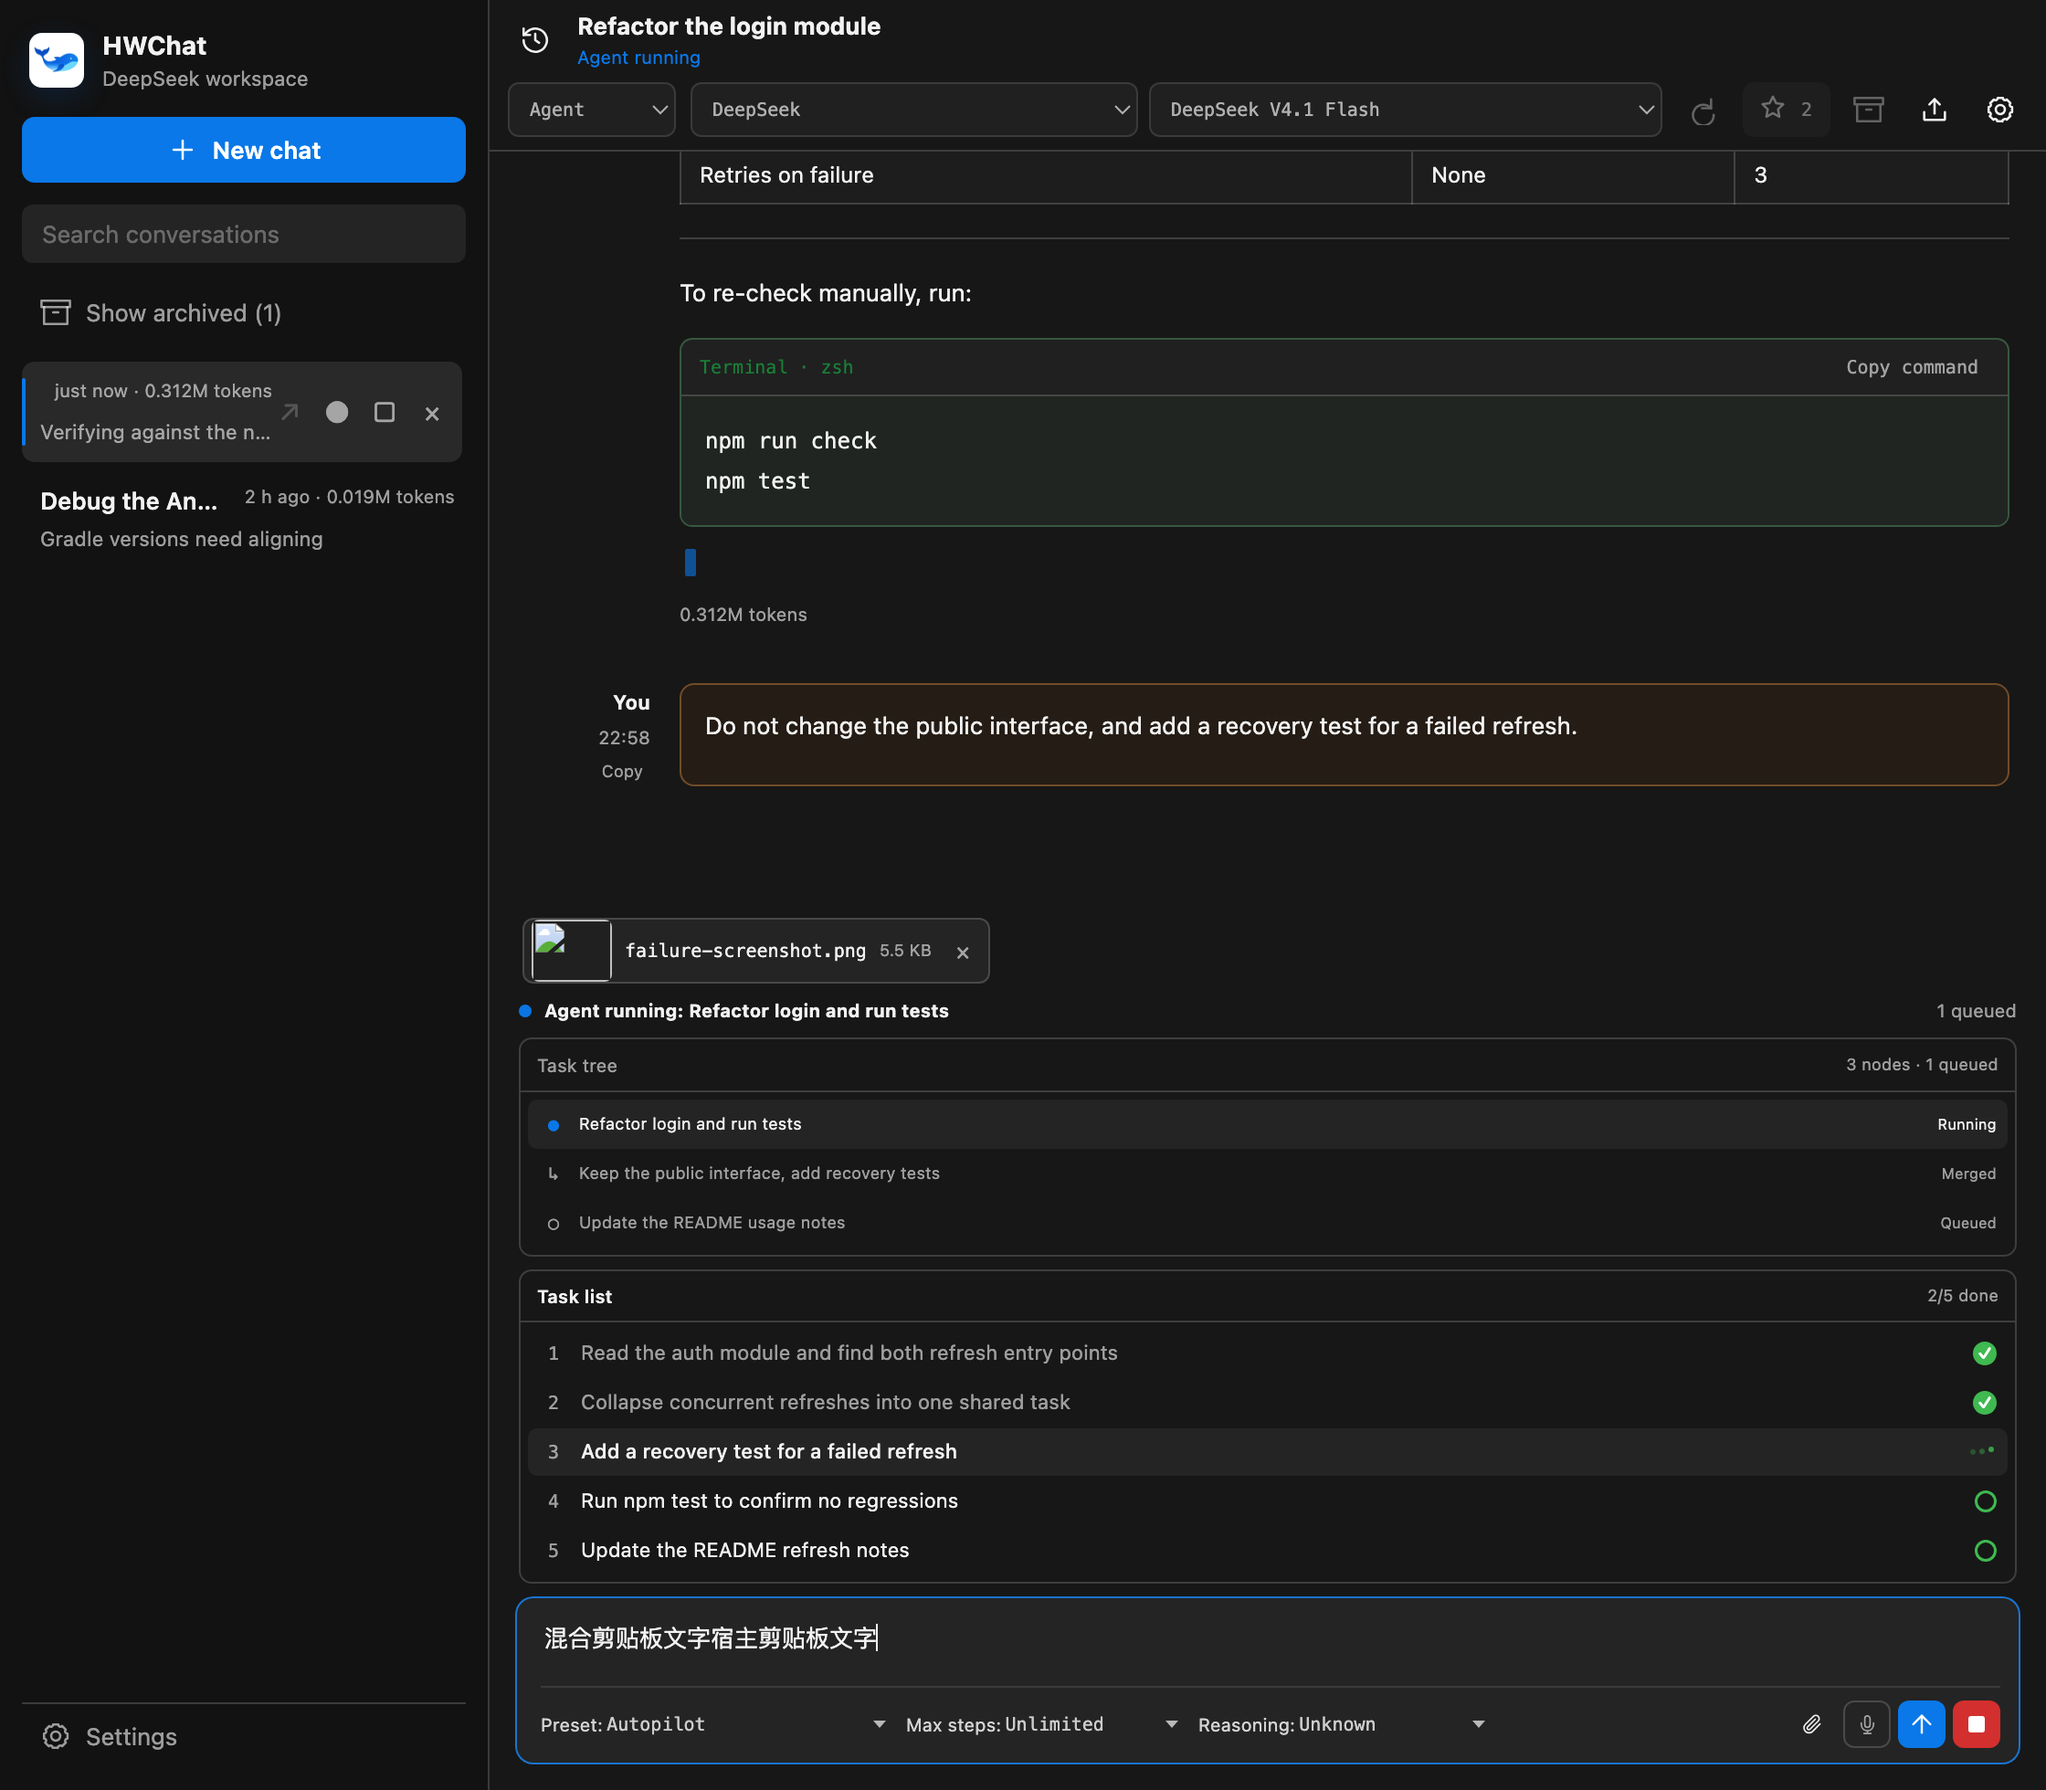
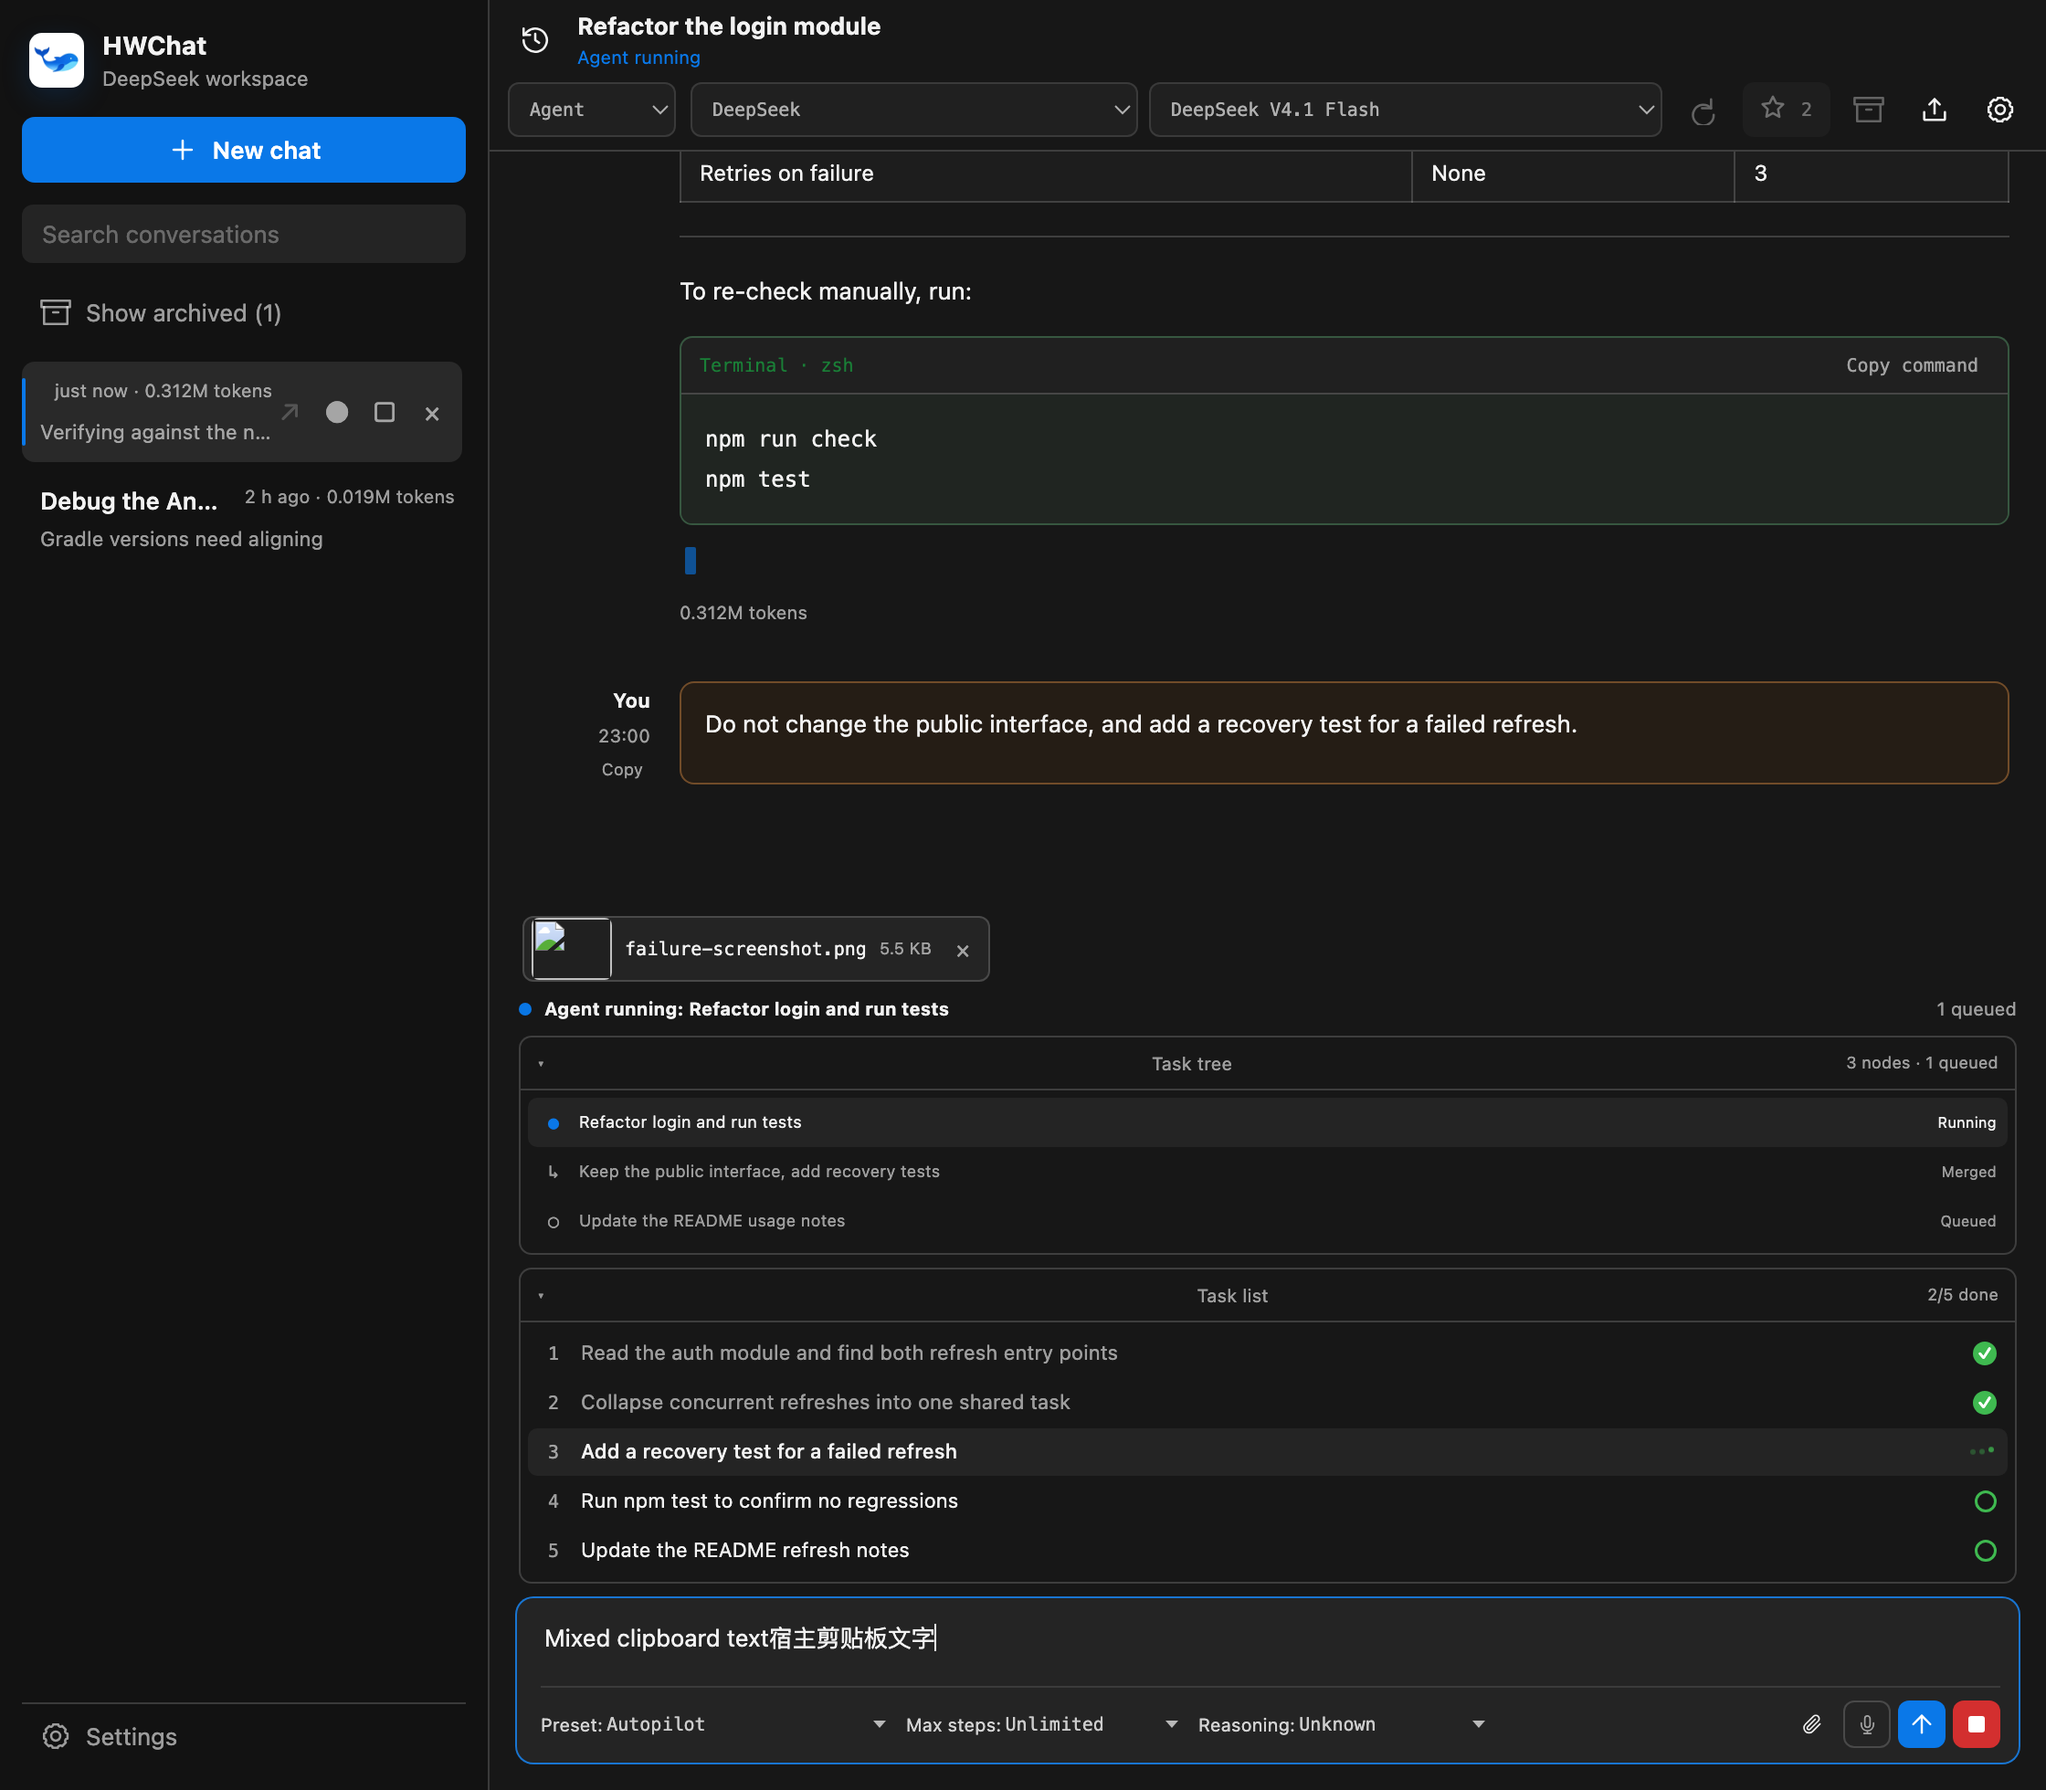
feat: make the task list collapsible like the task tree
- Render the task list as <details>/<summary> instead of a section, so a
  click on the title collapses and re-expands it.
- Draw the disclosure arrow with ::before, showing a right-pointing mark
  when closed and a down-pointing one when open: once a summary becomes
  display:flex the browser stops painting ::marker, which is why the
  reasoning block already draws its own arrow.
- Give the task tree the same arrow; it had no visible affordance either.
- Keep the list expanded by default and never re-open or re-close it on
  re-render, so the user's choice sticks for the session.
- Translate the remaining sample data in the generated screenshots.

diff --git a/media/chat.css b/media/chat.css
@@ -368,18 +368,26 @@ select, option { color: var(--dropdown-fg); background: var(--dropdown-bg); }
 .agent-run-state > span:last-child { margin-left: auto; white-space: nowrap; }
 .run-indicator { width: 7px; height: 7px; flex: 0 0 auto; border-radius: 50%; background: var(--accent); animation: pulse 1.1s ease-in-out infinite; }
 /* ── 任务清单（待办）─────────────────────────────────────────────
-   位置：任务树与输入框之间。三个状态都用绿色表示“按计划推进”：
-   等待=空心圆圈，执行中=跳动三点，完成=实心圆圈+白勾。
-   绿色取固定值而不是 --success：VS Code 主题的 testing-iconPassed
-   在少数主题里偏黄偏青，勾和圆圈会看不出是绿色。 */
+   位置：任务树与输入框之间，和任务树一样是 <details>，点标题折叠/展开。
+   三个状态都用绿色表示“按计划推进”：等待=空心圆圈，执行中=跳动三点，
+   完成=实心圆圈+白勾。绿色取固定值而不是 --success：VS Code 主题的
+   testing-iconPassed 在少数主题里偏黄偏青，勾和圆圈会看不出是绿色。 */
 .todo-panel { margin: 0 2px 7px; border: 1px solid var(--border); border-radius: 7px; background: var(--bg); overflow: hidden; --todo-green: #1a7f37; }
 :root[data-theme="dark"] .todo-panel,
 body.vscode-dark .todo-panel,
 body.vscode-high-contrast .todo-panel { --todo-green: #3fb950; }
-.todo-panel-heading { display: flex; align-items: center; justify-content: space-between; gap: 10px; min-height: 28px; padding: 5px 9px; border-bottom: 1px solid var(--border); color: var(--muted); font-size: 10px; }
-.todo-panel-heading strong { font-weight: 600; color: var(--fg); }
-.todo-panel-heading small { font-size: 9px; white-space: nowrap; }
-.todo-list { display: grid; gap: 1px; margin: 0; padding: 4px; list-style: none; }
+/* summary 用 flex 之后浏览器不再绘制 ::marker，箭头必须自绘（与 .reasoning 同法）。 */
+.todo-panel > summary,
+.task-tree > summary { display: flex; align-items: center; justify-content: space-between; min-height: 28px; gap: 10px; padding: 5px 9px; cursor: pointer; color: var(--muted); font-size: 10px; list-style: none; user-select: none; }
+.todo-panel > summary::-webkit-details-marker,
+.task-tree > summary::-webkit-details-marker { display: none; }
+.todo-panel > summary::before,
+.task-tree > summary::before { content: "▸"; flex: 0 0 auto; margin-right: -4px; font-size: 9px; color: color-mix(in srgb, var(--fg) 58%, transparent); }
+.todo-panel[open] > summary::before,
+.task-tree[open] > summary::before { content: "▾"; }
+.todo-panel > summary small,
+.task-tree > summary small { font-size: 9px; white-space: nowrap; }
+.todo-list { display: grid; gap: 1px; margin: 0; padding: 4px; list-style: none; border-top: 1px solid var(--border); }
 .todo-item { display: grid; grid-template-columns: 16px minmax(0, 1fr) auto; align-items: center; gap: 7px; min-height: 26px; padding: 3px 6px; border-radius: 5px; font-size: 11px; line-height: 1.45; }
 .todo-index { text-align: center; font: 10px var(--mono); color: var(--muted); }
 .todo-content { overflow-wrap: anywhere; }
@@ -402,8 +410,6 @@ body.vscode-high-contrast .todo-panel { --todo-green: #3fb950; }
 }
 
 .task-tree { margin: 0 2px 7px; border: 1px solid var(--border); border-radius: 7px; background: var(--bg); overflow: hidden; }
-.task-tree > summary { display: flex; align-items: center; justify-content: space-between; min-height: 28px; gap: 10px; padding: 5px 9px; cursor: pointer; color: var(--muted); font-size: 10px; }
-.task-tree > summary small { font-size: 9px; }
 .task-tree-list { display: grid; border-top: 1px solid var(--border); padding: 4px; }
 .task-node { display: grid; grid-template-columns: 16px minmax(0, 1fr) auto; align-items: center; gap: 6px; min-height: 27px; padding: 3px 6px; border-radius: 5px; color: var(--muted); font-size: 9px; }
 .task-node.current { color: var(--fg); background: var(--surface); }

diff --git a/src/views/chatPanel.ts b/src/views/chatPanel.ts
@@ -1681,11 +1681,10 @@ export class ChatPanel implements vscode.WebviewViewProvider, vscode.Disposable 
         <div id="contextChip" class="context-chip" hidden><span id="contextLabel"></span><button id="removeContextButton" type="button" aria-label="${t(lang, 'chat.removeContext')}" title="${t(lang, 'common.remove')}">×</button></div>
         <div id="agentRunState" class="agent-run-state" hidden><span class="run-indicator"></span><strong id="agentRunLabel">${t(lang, 'chat.agentRunning')}</strong><span id="agentRunMeta"></span></div>
         <details id="taskTree" class="task-tree" hidden><summary><span>${t(lang, 'chat.taskTree')}</span><small id="taskTreeSummary"></small></summary><div id="taskTreeList" class="task-tree-list"></div></details>
-        <section id="todoPanel" class="todo-panel" hidden aria-label="${t(lang, 'todo.title')}">
-          <div class="todo-panel-heading"><strong>${t(lang, 'todo.title')}</strong><small id="todoSummary"></small></div>
+        <details id="todoPanel" class="todo-panel" hidden open>
+          <summary><span>${t(lang, 'todo.title')}</span><small id="todoSummary"></small></summary>
           <ol id="todoList" class="todo-list"></ol>
-        </section>
-        <form id="composer" class="composer">
+        </details>        <form id="composer" class="composer">
           <textarea id="promptInput" rows="1" placeholder="${t(lang, 'chat.promptPlaceholder')}" aria-label="${t(lang, 'chat.messageLabel')}"></textarea>
           <div class="composer-footer">
             <div class="composer-runtime-controls" aria-label="${t(lang, 'chat.agentRuntimeSettings')}">

diff --git a/test/preview-chat.html b/test/preview-chat.html
@@ -109,10 +109,10 @@
         <div id="contextChip" class="context-chip" hidden><span id="contextLabel"></span><button id="removeContextButton" type="button">×</button></div>
         <div id="agentRunState" class="agent-run-state" hidden><span class="run-indicator"></span><strong id="agentRunLabel">Agent 正在执行</strong><span id="agentRunMeta"></span></div>
         <details id="taskTree" class="task-tree" hidden open><summary><span>任务树</span><small id="taskTreeSummary"></small></summary><div id="taskTreeList" class="task-tree-list"></div></details>
-        <section id="todoPanel" class="todo-panel" hidden>
-          <div class="todo-panel-heading"><strong>任务清单</strong><small id="todoSummary"></small></div>
+        <details id="todoPanel" class="todo-panel" hidden open>
+          <summary><span>任务清单</span><small id="todoSummary"></small></summary>
           <ol id="todoList" class="todo-list"></ol>
-        </section>
+        </details>
         <form id="composer" class="composer">
           <textarea id="promptInput" rows="1" placeholder="询问代码、调试问题或直接交给 Agent 实现…"></textarea>
           <div class="composer-footer">

diff --git a/CHANGELOG.md b/CHANGELOG.md
@@ -26,6 +26,7 @@
 - 清单随对话持久化（`ConversationSummary.todos`），重载窗口或切回该对话仍在；模型传入的内容按不可信输入处理：条数上限 40、单条压成一行并截断到 200 字符、未知状态一律降级为 `pending`、空条目丢弃，避免一条工具调用把面板和存档撑爆或渲染出没有样式的空状态。若模型给了多个 `in_progress`，工具会回一句提示让它自己纠正，而不是悄悄改写它给的状态。
 - 预览页 `test/preview-chat.html` 增加任务清单样例，「说明 → 步骤」与清单可以在浏览器里直接核对；`docs/screenshots/build.mjs` 现在会先删掉预览页自带的中文词表再注入英文词表——同一 id 下浏览器只取第一个块，不删就会截出「英文界面 + 中文文案」的图。截图命令补上 `--virtual-time-budget=3000`，等渲染定时器跑完再截，否则拿到的是首帧空列表。测试 158 → 165。
 
+- 任务清单改成可折叠：结构从 `<section>` 换成 `<details>` + `<summary>`，点标题就能收起和展开，与任务树一致。`summary` 一旦是 `display: flex`，浏览器就不再绘制 `::marker`，所以箭头改成自绘（`▸` 收起 / `▾` 展开，沿用 `.reasoning` 的写法），并给任务树补上同一个箭头——它此前同样没有可见的折叠提示。默认展开，用户收起后在同一次会话里保持收起（面板不重建就不会被重置）。实测：面板高度 173 → 30（收起）→ 173（再展开），箭头随 `open` 状态切换。
 ## 0.1.7
 
 - Added `HWChat: 查看生效权限与来源` plus an automatic log line in the `HWChat` output channel (at activation and whenever `hwchat.*` configuration changes). It prints every permission key with the value that is actually in effect and the raw value found at each scope — `文件夹: DeepSeek-HWChat="review"｜工作区: 无｜用户: "autopilot"｜默认: 无` — so “我写了 review 但危险命令还是直接跑” can be answered without reading source. The resolver already prefers the most specific scope; this makes its decision auditable in the running build. Test count 144 → 146.

diff --git a/README.md b/README.md
@@ -53,7 +53,7 @@ When the work needs several steps, the agent writes a task list rather than leav
 | In progress | green bouncing ellipsis |
 | Completed | solid green circle with a white check |
 
-The agent keeps exactly one step in progress, updates the list after each step, and leaves the finished list in place as a record of what happened. The list is stored with the conversation, so it survives reloading the window; a single-step request never creates one. It is a tool (`update_todos`) that needs no permission, because it changes no files and runs no commands.
+Click the title to collapse or expand the list, the same way as the task tree. The agent keeps exactly one step in progress, updates the list after each step, and leaves the finished list in place as a record of what happened. The list is stored with the conversation, so it survives reloading the window; a single-step request never creates one. It is a tool (`update_todos`) that needs no permission, because it changes no files and runs no commands.
 
 ## Skills
 
